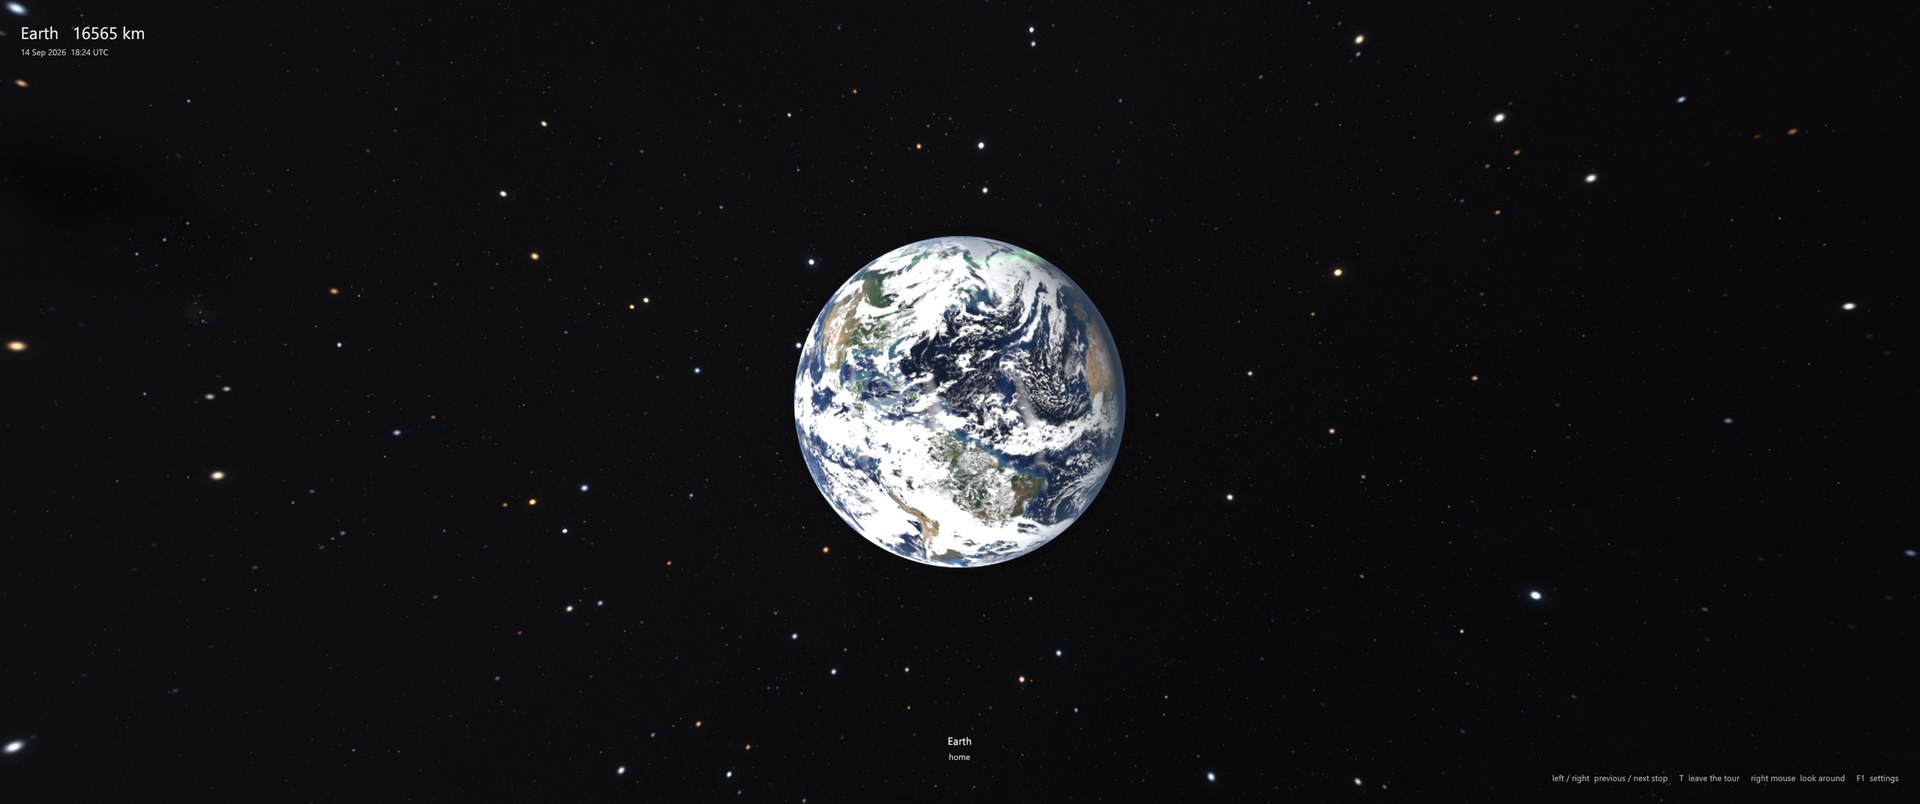
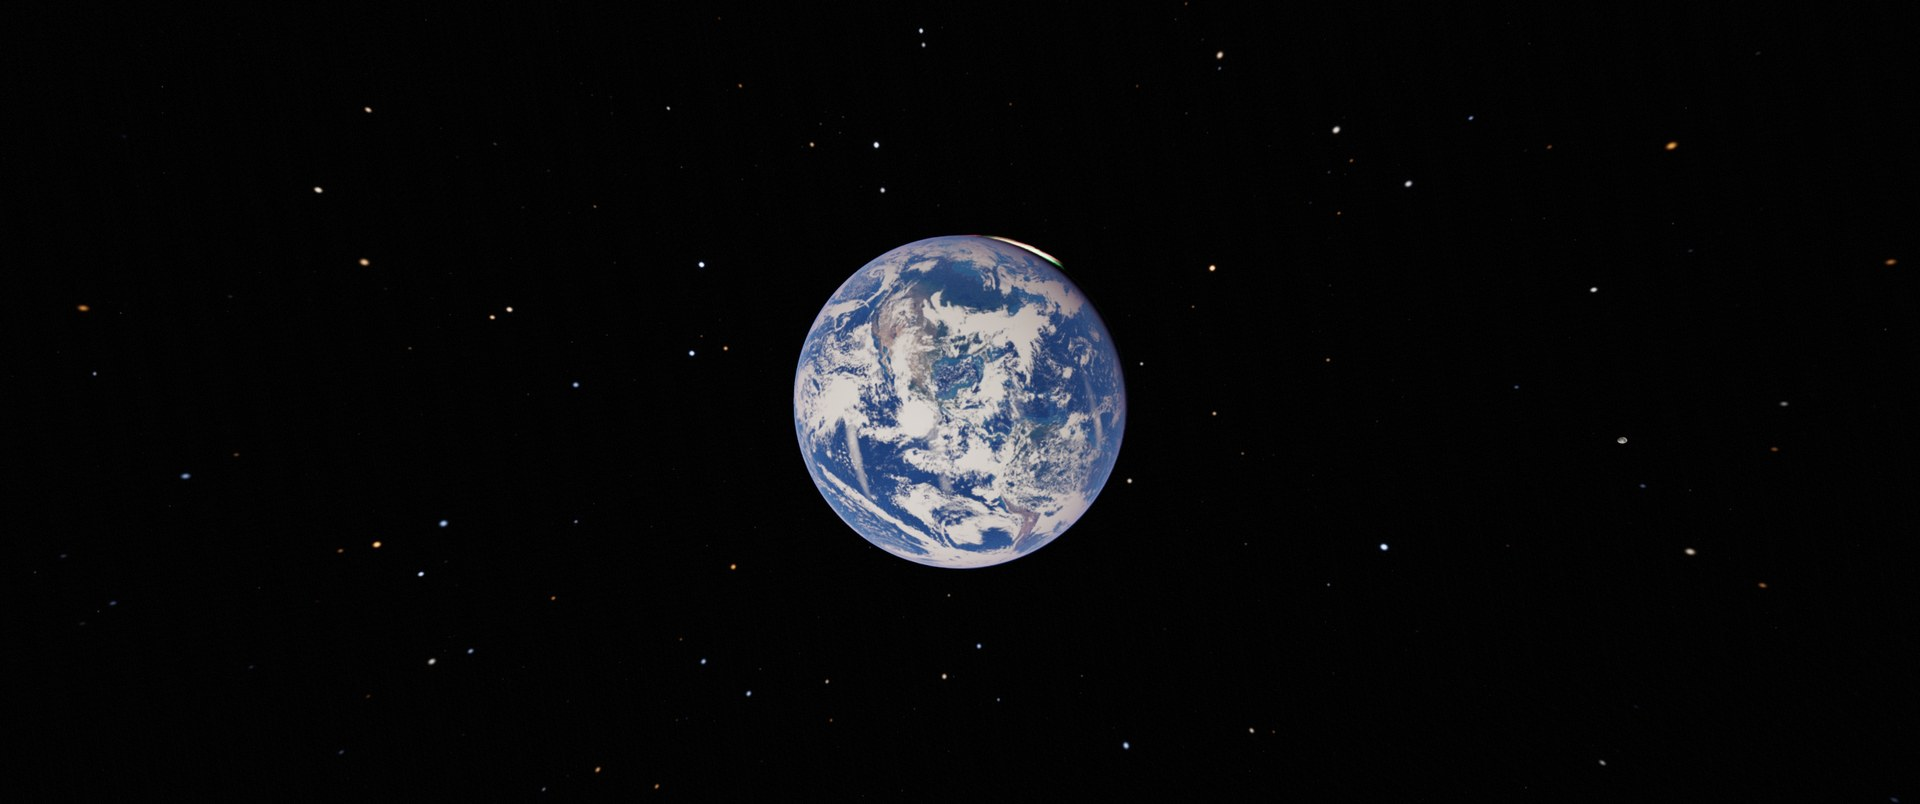
Gallery: new title, Saturn V, ISS and Earth shots with the physically based atmospheres; the Sun from SDO and Parker at perihelion

diff --git a/README.md b/README.md
@@ -30,6 +30,8 @@ middleware beyond the NVIDIA DLSS SDK.
 | *Jupiter* | *Saturn, rings translucent and backlit* |
 | ![Flying through Saturn's rings](docs/screenshots/rings.jpg) | ![Earth](docs/screenshots/earth.jpg) |
 | *Through the ring plane* | *Earth, water shaded as water, cloud tops volumetric* |
+| ![The Sun with the day's sunspots from NASA SDO](docs/screenshots/sun.jpg) | ![Parker Solar Probe at perihelion, heat shield to the Sun](docs/screenshots/parker.jpg) |
+| *The Sun, sunspots from NASA SDO/HMI, 23 September 2026* | *Parker Solar Probe at perihelion, 6.9 million km from the Sun, 5 September 2026* |
 
 ## What it does
 
